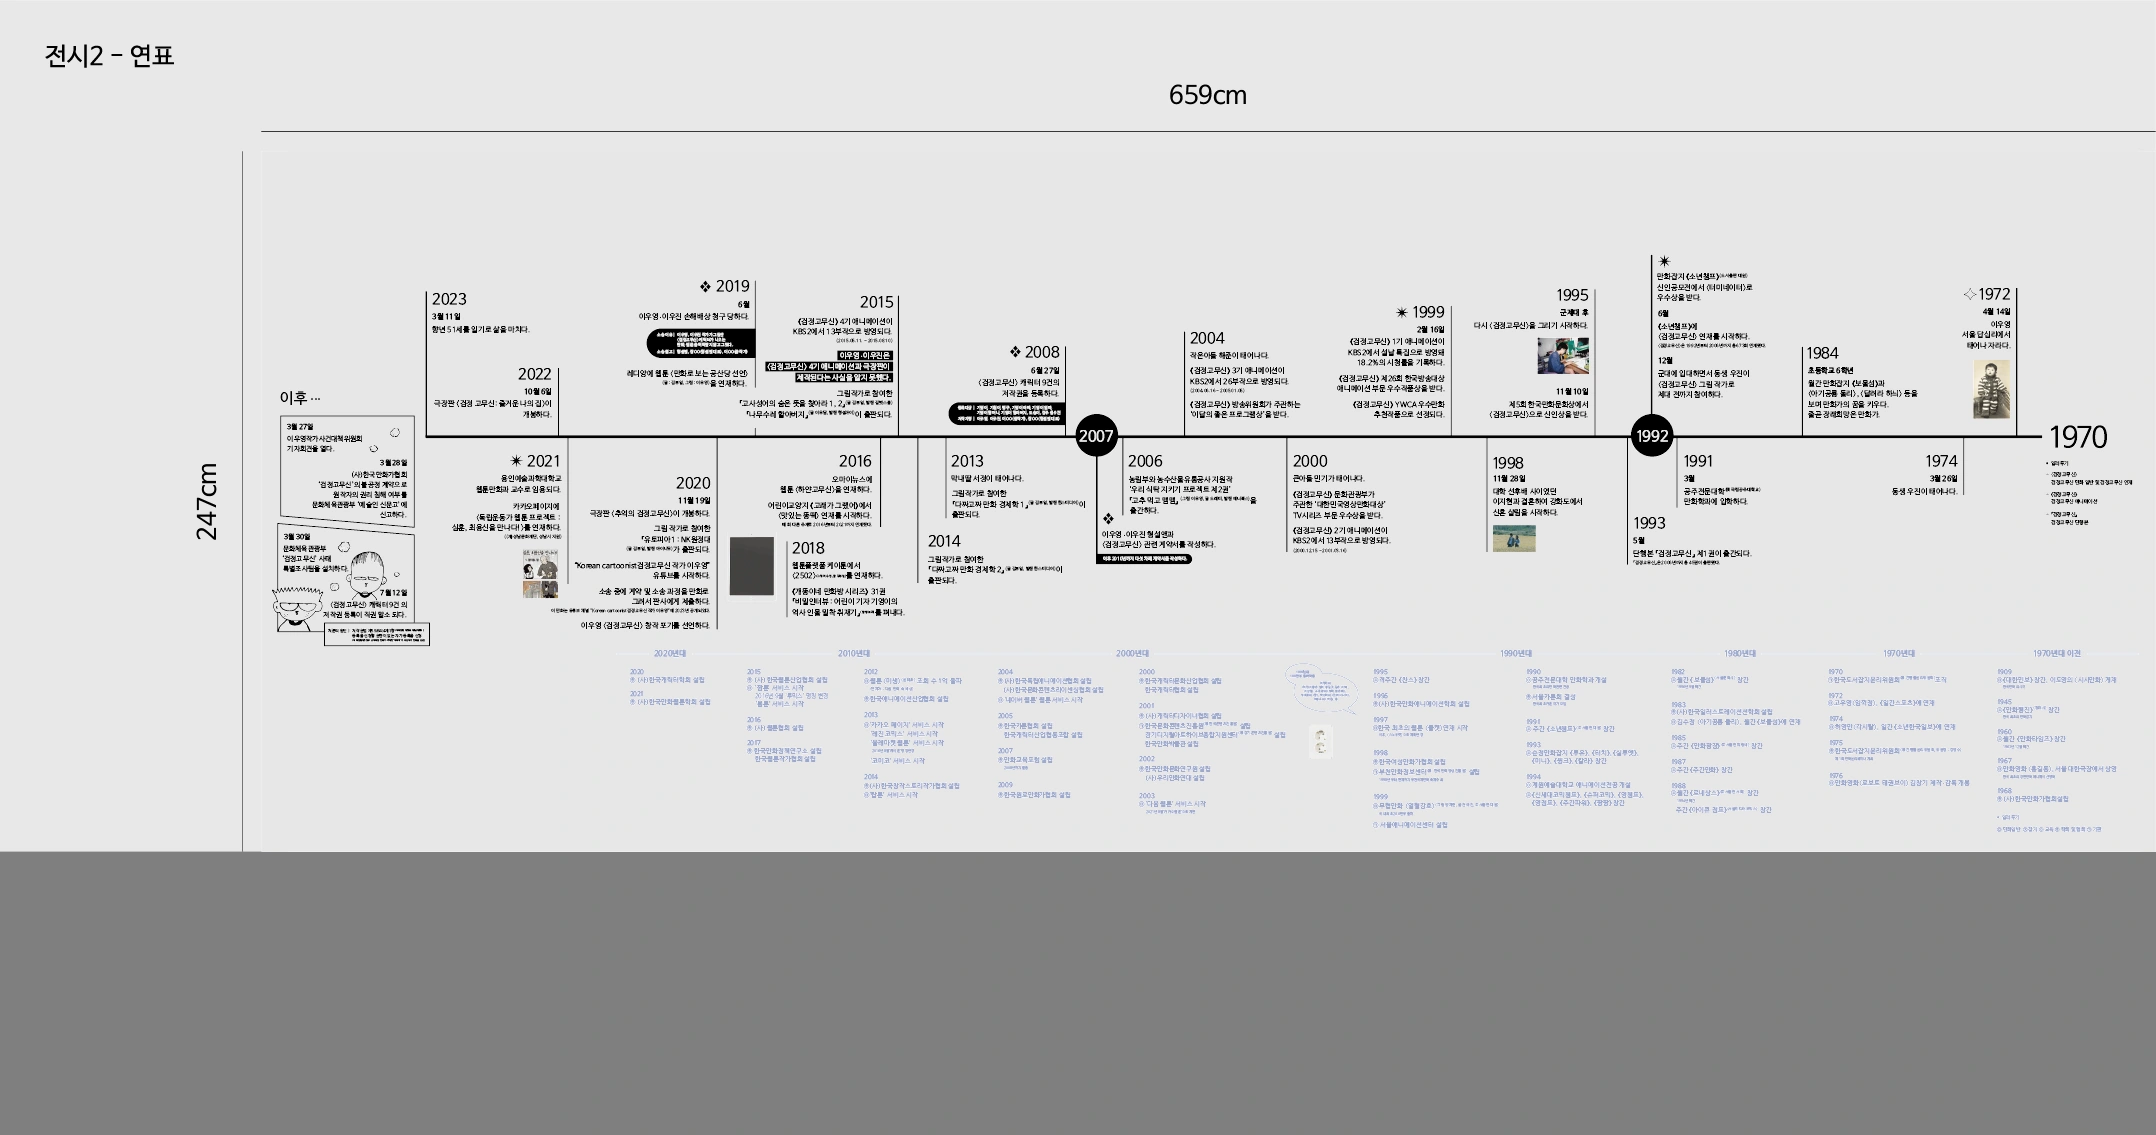
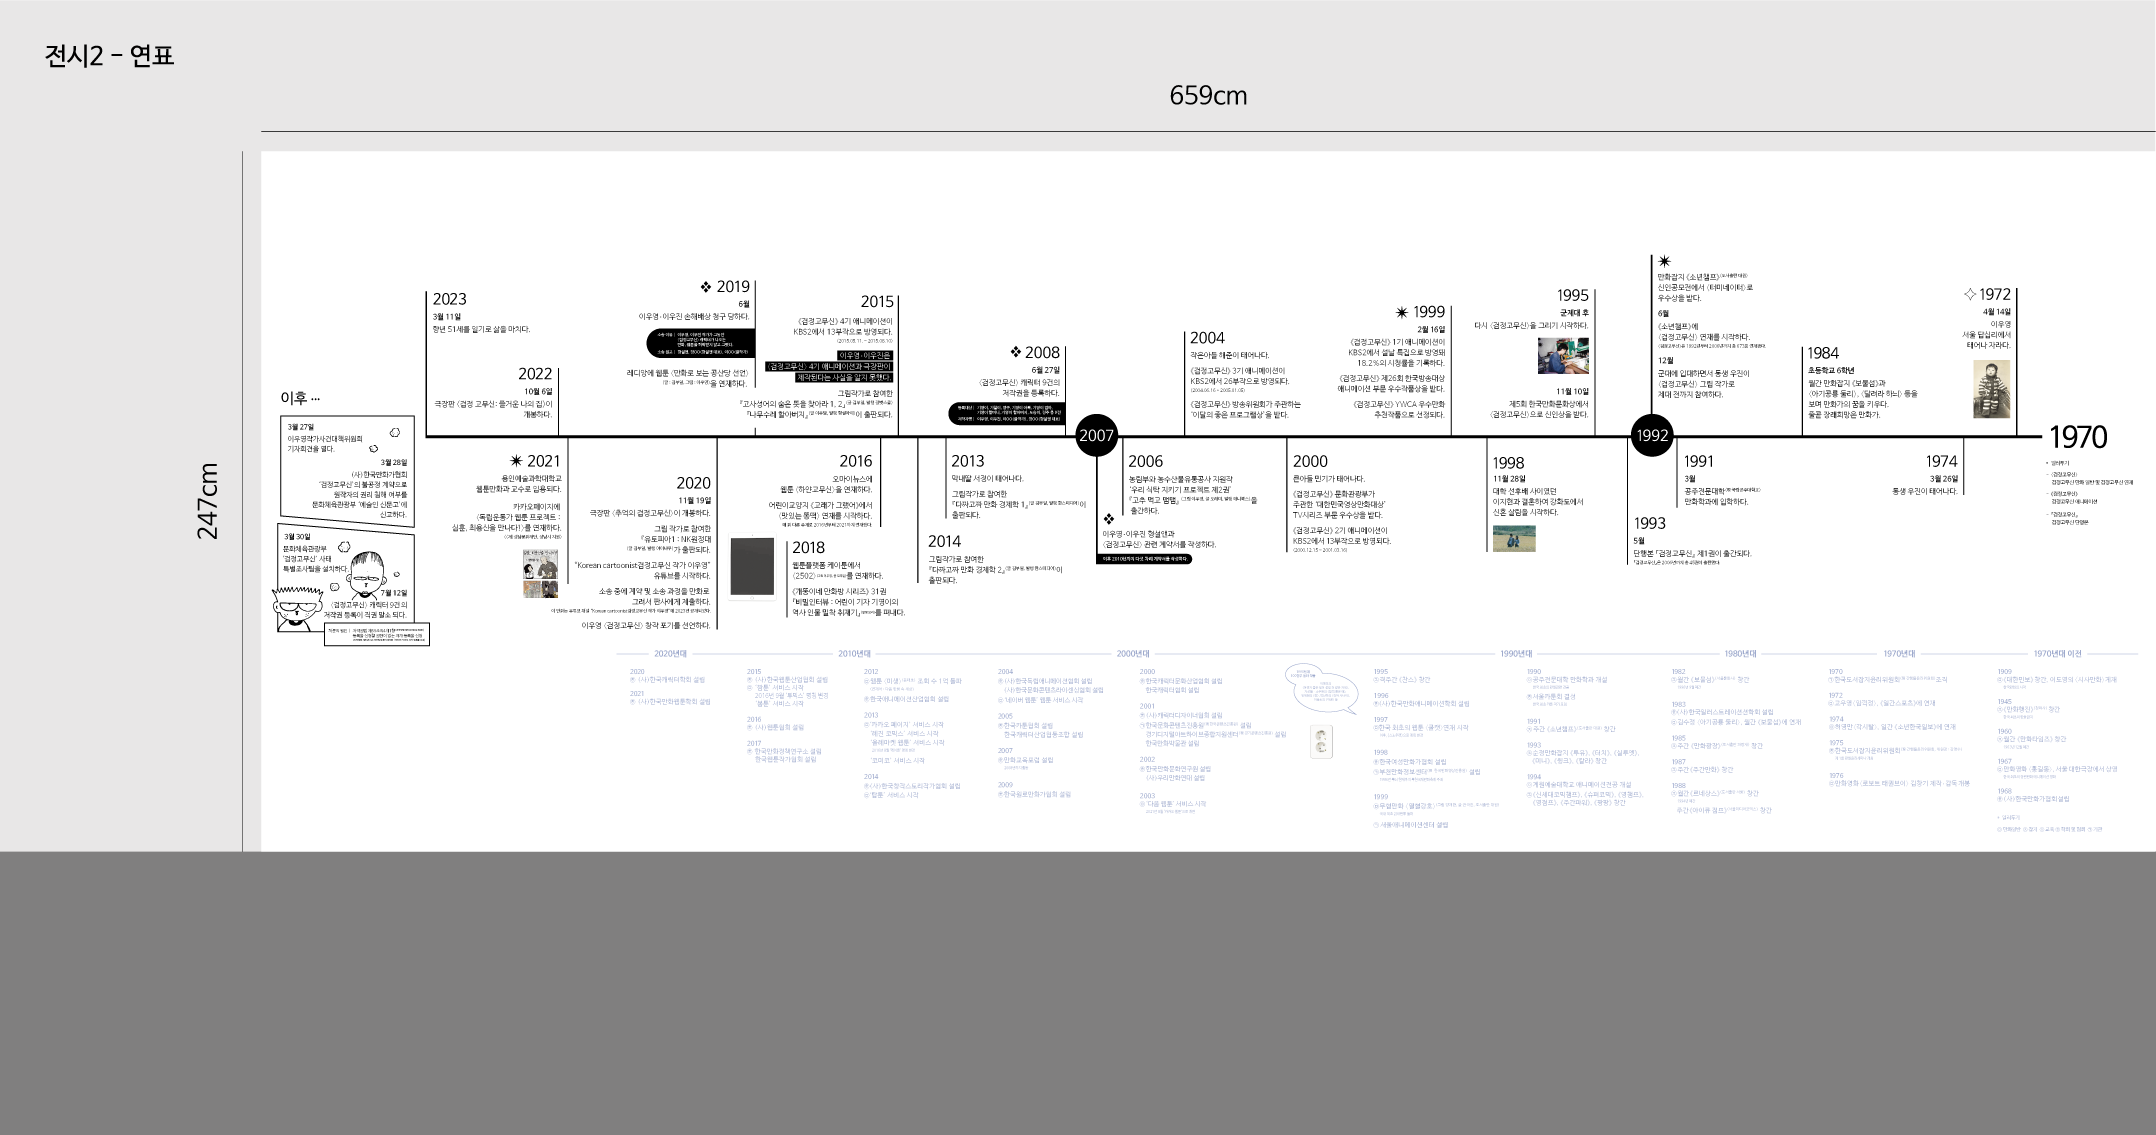
Adjust playhouse right side image group width and grid ratio for exact bottom line alignment with casting board

diff --git a/project.html b/project.html
@@ -494,7 +494,7 @@
 
         .project-bottom.playhouse-layout {
             display: grid;
-            grid-template-columns: minmax(0, 1.25fr) minmax(280px, 0.9fr);
+            grid-template-columns: minmax(0, 1.25fr) minmax(220px, 0.63fr);
             column-gap: clamp(16px, 2vw, 32px);
             row-gap: 26px;
             align-items: start;
@@ -533,7 +533,7 @@
             flex-direction: column;
             gap: 20px;
             width: 100%;
-            max-width: 350px;
+            max-width: 315px;
             min-width: 0;
         }
 
